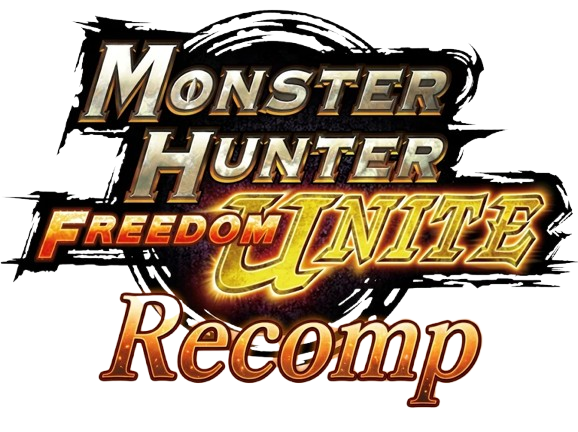
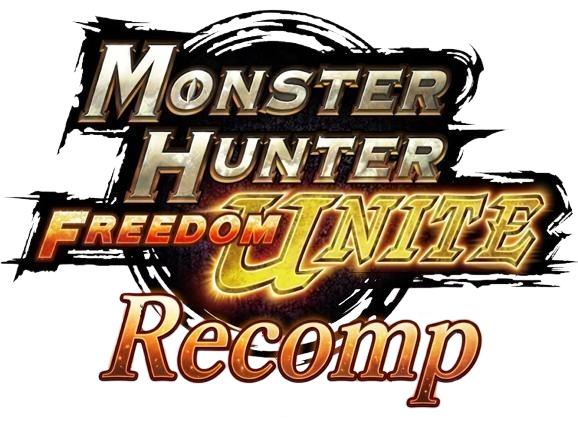
Update image size for MHFU_RecompTitle in README.md

diff --git a/README.md b/README.md
@@ -1,5 +1,5 @@
 <h1 align="center">
-  <img src="MHFU_RecompTitle.png" width="128" alt=""><br>
+  <img src="MHFU_RecompTitle.png" width="512" alt=""><br>
   Monster Hunter: Freedom Unite Recomp
 </h1>
 
